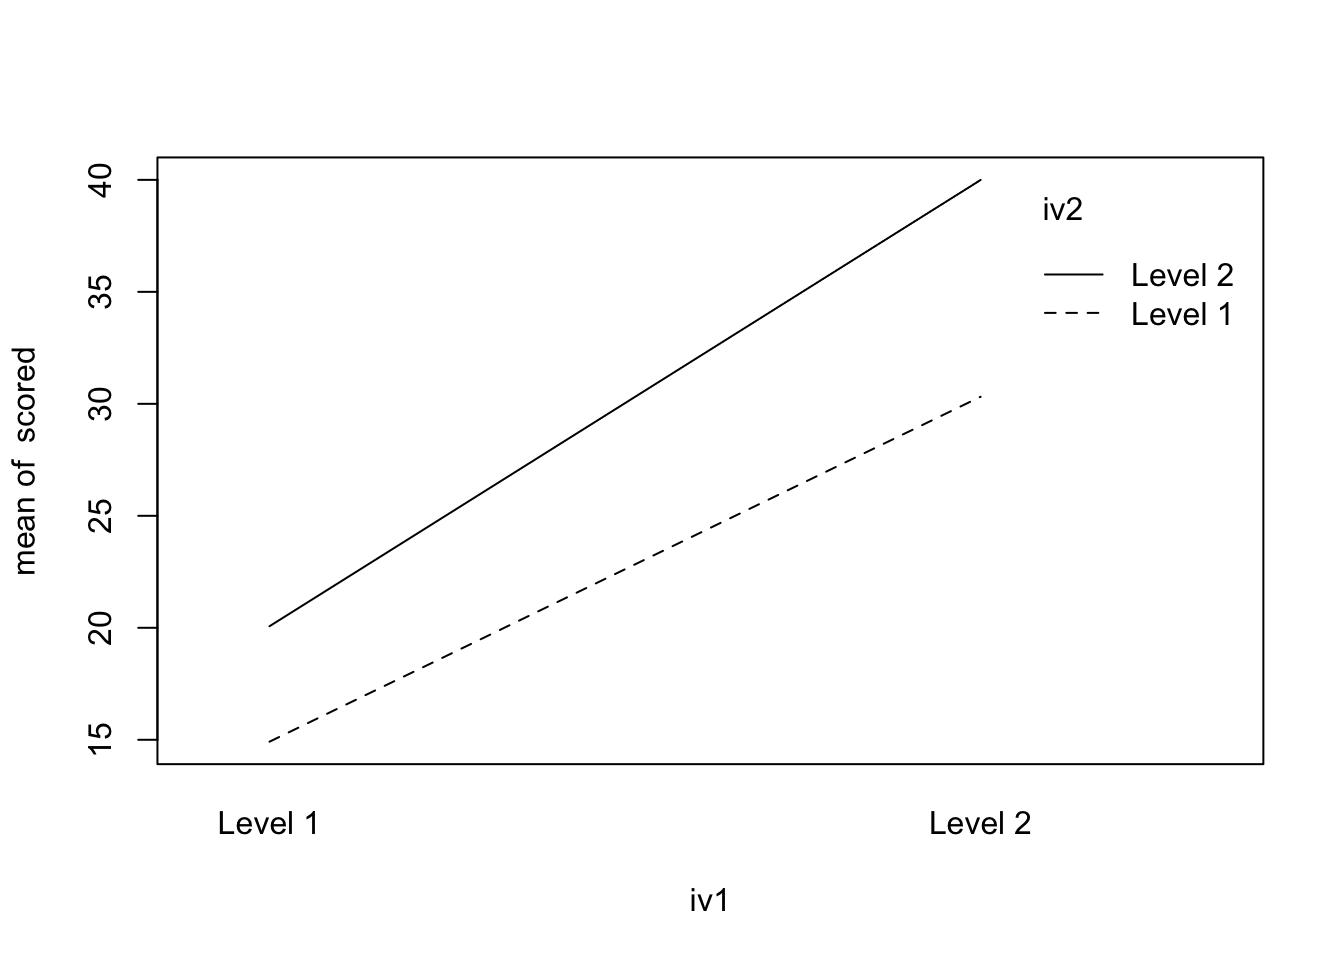
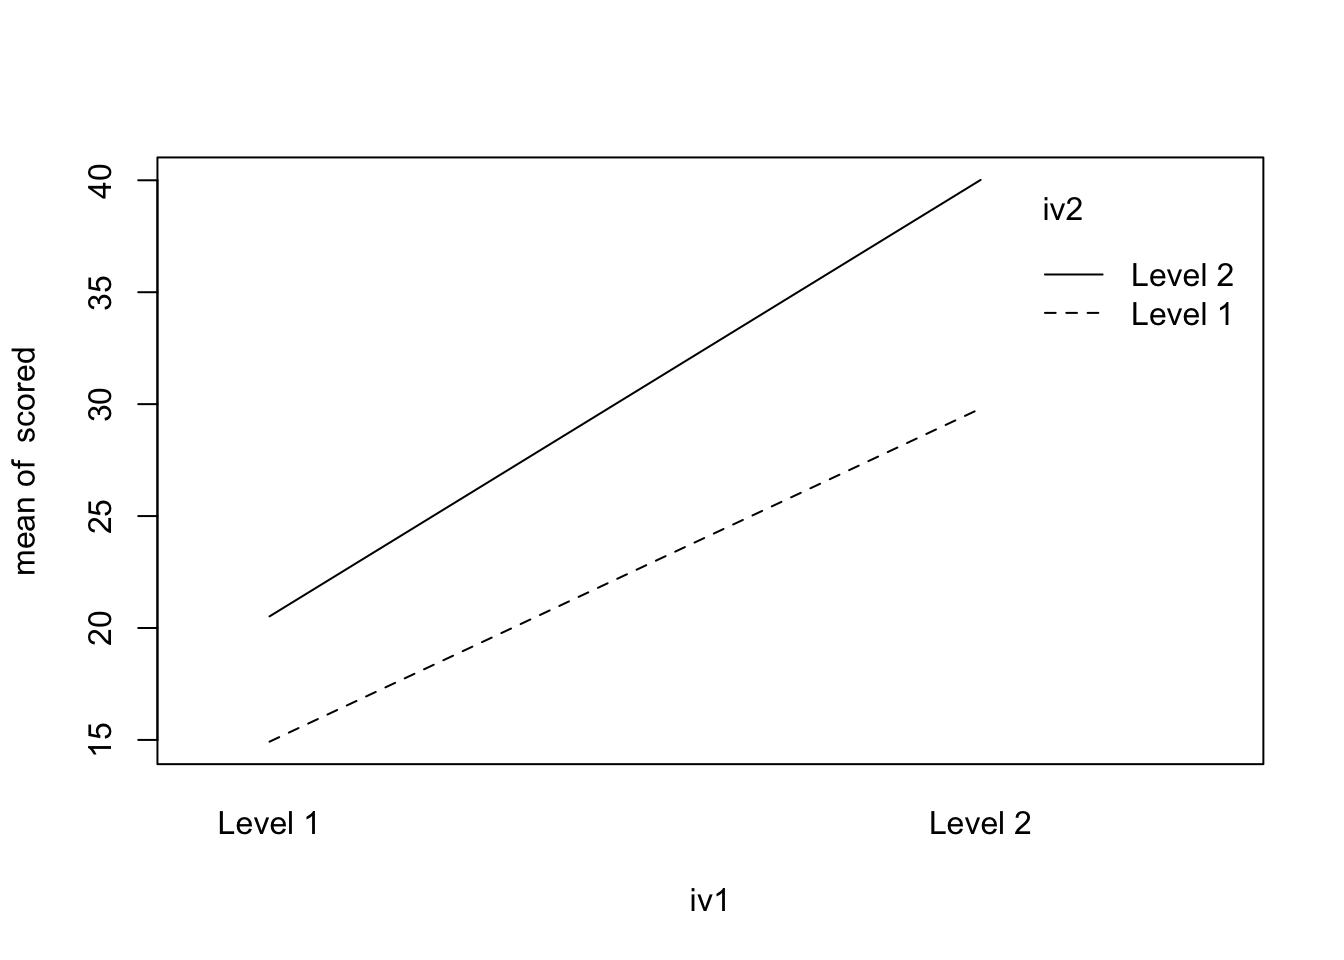
sddd

diff --git a/docs/Lab-11.html b/docs/Lab-11.html
@@ -341,6 +341,7 @@ $(document).ready(function () {
 </div>
 
 
+<p><br></p>
 <div id="two-factor-between-subject-anova" class="section level2">
 <h2>Two Factor Between Subject ANOVA</h2>
 <p>Recall the way that the ANOVA is formatted:</p>
@@ -350,8 +351,8 @@ onefact &lt;- data.frame(groups,score)</code></pre>
 <p>We have three independent variables, or conditions, control, treatment 1 and treatment 2. We have one dependent variable, some idea of “score”.</p>
 <p>The ANOVA is analyzed through the use of the <code>aov</code> function. Remember to save the analysis as a model so you can use it later if you need to do any post-hoc tests/unplanned comparisons.</p>
 <pre><code>            Df Sum Sq Mean Sq F value Pr(&gt;F)    
-groups       2 1421.9   711.0   589.7 &lt;2e-16 ***
-Residuals   57   68.7     1.2                   
+groups       2 1407.7   703.8   586.4 &lt;2e-16 ***
+Residuals   57   68.4     1.2                   
 ---
 Signif. codes:  0 &#39;***&#39; 0.001 &#39;**&#39; 0.01 &#39;*&#39; 0.05 &#39;.&#39; 0.1 &#39; &#39; 1</code></pre>
 <table>
@@ -369,16 +370,16 @@ Signif. codes:  0 &#39;***&#39; 0.001 &#39;**&#39; 0.01 &#39;*&#39; 0.05 &#39;.&
 <tr class="odd">
 <td align="left">groups</td>
 <td align="right">2</td>
-<td align="right">1421.94812</td>
-<td align="right">710.974062</td>
-<td align="right">589.6924</td>
+<td align="right">1407.69983</td>
+<td align="right">703.84991</td>
+<td align="right">586.4194</td>
 <td align="right">0</td>
 </tr>
 <tr class="even">
 <td align="left">Residuals</td>
 <td align="right">57</td>
-<td align="right">68.72315</td>
-<td align="right">1.205669</td>
+<td align="right">68.41426</td>
+<td align="right">1.20025</td>
 <td align="right">NA</td>
 <td align="right">NA</td>
 </tr>
@@ -394,76 +395,76 @@ Signif. codes:  0 &#39;***&#39; 0.001 &#39;**&#39; 0.01 &#39;*&#39; 0.05 &#39;.&
  twofact.df &lt;- data.frame(Gender,Diet,Count)
  twofact.df</code></pre>
 <pre><code>   Gender   Diet    Count
-1    Male Diet 1 28.53147
-2    Male Diet 2 26.23178
-3    Male Diet 1 28.84731
-4    Male Diet 2 25.42578
-5    Male Diet 1 31.91951
-6    Male Diet 2 23.53508
-7    Male Diet 1 27.10036
-8    Male Diet 2 29.43256
-9    Male Diet 1 27.70672
-10   Male Diet 2 28.89447
-11   Male Diet 1 30.95259
-12   Male Diet 2 29.05285
-13   Male Diet 1 28.42184
-14   Male Diet 2 27.79416
-15   Male Diet 1 27.70466
-16   Male Diet 2 24.69838
-17   Male Diet 1 24.06149
-18   Male Diet 2 27.75426
-19   Male Diet 1 30.17468
-20   Male Diet 2 25.61311
-21   Male Diet 1 28.68784
-22   Male Diet 2 28.07542
-23   Male Diet 1 26.79345
-24   Male Diet 2 29.52234
-25   Male Diet 1 29.54715
-26   Male Diet 2 29.36756
-27   Male Diet 1 28.88748
-28   Male Diet 2 27.96414
-29   Male Diet 1 27.84210
-30   Male Diet 2 29.36165
-31 Female Diet 1 36.46115
-32 Female Diet 2 32.36776
-33 Female Diet 1 38.14701
-34 Female Diet 2 38.50928
-35 Female Diet 1 37.42701
-36 Female Diet 2 32.01130
-37 Female Diet 1 37.59093
-38 Female Diet 2 35.79940
-39 Female Diet 1 33.10649
-40 Female Diet 2 34.81801
-41 Female Diet 1 30.38123
-42 Female Diet 2 34.80708
-43 Female Diet 1 33.97652
-44 Female Diet 2 39.04267
-45 Female Diet 1 33.94122
-46 Female Diet 2 33.09970
-47 Female Diet 1 32.09293
-48 Female Diet 2 38.99377
-49 Female Diet 1 37.52461
-50 Female Diet 2 33.59144
-51 Female Diet 1 34.64711
-52 Female Diet 2 36.04067
-53 Female Diet 1 36.99550
-54 Female Diet 2 32.53166
-55 Female Diet 1 37.14753
-56 Female Diet 2 29.47567
-57 Female Diet 1 36.13137
-58 Female Diet 2 36.04017
-59 Female Diet 1 34.21301
-60 Female Diet 2 37.13720</code></pre>
+1    Male Diet 1 27.75444
+2    Male Diet 2 27.77672
+3    Male Diet 1 26.46343
+4    Male Diet 2 27.47751
+5    Male Diet 1 25.97975
+6    Male Diet 2 29.44150
+7    Male Diet 1 22.57227
+8    Male Diet 2 26.57238
+9    Male Diet 1 29.12370
+10   Male Diet 2 28.01403
+11   Male Diet 1 25.95883
+12   Male Diet 2 29.11127
+13   Male Diet 1 30.26321
+14   Male Diet 2 28.23514
+15   Male Diet 1 26.43920
+16   Male Diet 2 29.47807
+17   Male Diet 1 30.39601
+18   Male Diet 2 29.40052
+19   Male Diet 1 25.40175
+20   Male Diet 2 27.88896
+21   Male Diet 1 27.04195
+22   Male Diet 2 29.08836
+23   Male Diet 1 28.96365
+24   Male Diet 2 30.88137
+25   Male Diet 1 31.13416
+26   Male Diet 2 28.33216
+27   Male Diet 1 29.76521
+28   Male Diet 2 28.01631
+29   Male Diet 1 28.74957
+30   Male Diet 2 26.63328
+31 Female Diet 1 37.12409
+32 Female Diet 2 29.77303
+33 Female Diet 1 34.07045
+34 Female Diet 2 37.46748
+35 Female Diet 1 35.30107
+36 Female Diet 2 34.52635
+37 Female Diet 1 31.91394
+38 Female Diet 2 33.99508
+39 Female Diet 1 32.90966
+40 Female Diet 2 36.18597
+41 Female Diet 1 36.46719
+42 Female Diet 2 32.37528
+43 Female Diet 1 33.34848
+44 Female Diet 2 32.98707
+45 Female Diet 1 35.02677
+46 Female Diet 2 33.60315
+47 Female Diet 1 37.16357
+48 Female Diet 2 32.83340
+49 Female Diet 1 36.00737
+50 Female Diet 2 37.23606
+51 Female Diet 1 34.84202
+52 Female Diet 2 33.21682
+53 Female Diet 1 38.17228
+54 Female Diet 2 33.80665
+55 Female Diet 1 34.48369
+56 Female Diet 2 32.83819
+57 Female Diet 1 35.62518
+58 Female Diet 2 34.66736
+59 Female Diet 1 33.57724
+60 Female Diet 2 33.98398</code></pre>
 <p>We can see that there are two levels of the independent variable (gender) and two levels of the independent variable (Diet) and one dependent variable, count.</p>
 <p>From this we will generate four sums of squares and four mean squares. - Sum of Squares for Factor A - Sum of Squares for Factor B - Sum of Squares for the <em>interaction</em> between A and B - Sum of Squares within, or Error, or residual.</p>
 <p>Analyizing the data just uses one more term:</p>
 <pre class="r"><code>twofact.mod&lt;-aov(Count~Gender*Diet,data = twofact.df)
 summary(twofact.mod)</code></pre>
 <pre><code>            Df Sum Sq Mean Sq F value Pr(&gt;F)    
-Gender       1  764.3   764.3 149.250 &lt;2e-16 ***
-Diet         1    6.6     6.6   1.298  0.259    
-Gender:Diet  1    1.3     1.3   0.260  0.612    
-Residuals   56  286.8     5.1                   
+Gender       1  621.9   621.9 183.250 &lt;2e-16 ***
+Diet         1    0.6     0.6   0.189 0.6658    
+Gender:Diet  1   12.0    12.0   3.548 0.0648 .  
+Residuals   56  190.1     3.4                   
 ---
 Signif. codes:  0 &#39;***&#39; 0.001 &#39;**&#39; 0.01 &#39;*&#39; 0.05 &#39;.&#39; 0.1 &#39; &#39; 1</code></pre>
 <pre class="r"><code>kable(xtable(summary(twofact.mod)))</code></pre>
@@ -482,32 +483,32 @@ Signif. codes:  0 &#39;***&#39; 0.001 &#39;**&#39; 0.01 &#39;*&#39; 0.05 &#39;.&
 <tr class="odd">
 <td>Gender</td>
 <td align="right">1</td>
-<td align="right">764.317335</td>
-<td align="right">764.317335</td>
-<td align="right">149.2502497</td>
+<td align="right">621.9377014</td>
+<td align="right">621.9377014</td>
+<td align="right">183.2496576</td>
 <td align="right">0.0000000</td>
 </tr>
 <tr class="even">
 <td>Diet</td>
 <td align="right">1</td>
-<td align="right">6.648651</td>
-<td align="right">6.648651</td>
-<td align="right">1.2982996</td>
-<td align="right">0.2593745</td>
+<td align="right">0.6399817</td>
+<td align="right">0.6399817</td>
+<td align="right">0.1885662</td>
+<td align="right">0.6657812</td>
 </tr>
 <tr class="odd">
 <td>Gender:Diet</td>
 <td align="right">1</td>
-<td align="right">1.331248</td>
-<td align="right">1.331248</td>
-<td align="right">0.2599562</td>
-<td align="right">0.6121539</td>
+<td align="right">12.0401025</td>
+<td align="right">12.0401025</td>
+<td align="right">3.5475332</td>
+<td align="right">0.0648306</td>
 </tr>
 <tr class="even">
 <td>Residuals</td>
 <td align="right">56</td>
-<td align="right">286.778554</td>
-<td align="right">5.121046</td>
+<td align="right">190.0604440</td>
+<td align="right">3.3939365</td>
 <td align="right">NA</td>
 <td align="right">NA</td>
 </tr>
@@ -528,11 +529,11 @@ length(iv1)</code></pre>
 <pre class="r"><code>length(scored)</code></pre>
 <pre><code>[1] 80</code></pre>
 <pre class="r"><code>summary(aov(scored~iv1*iv2,data = df))</code></pre>
-<pre><code>            Df Sum Sq Mean Sq F value   Pr(&gt;F)    
-iv1          1   6241    6241  5793.1  &lt; 2e-16 ***
-iv2          1   1101    1101  1021.6  &lt; 2e-16 ***
-iv1:iv2      1    102     102    95.1 4.91e-15 ***
-Residuals   76     82       1                     
+<pre><code>            Df Sum Sq Mean Sq F value Pr(&gt;F)    
+iv1          1   5910    5910  7342.2 &lt;2e-16 ***
+iv2          1   1250    1250  1552.8 &lt;2e-16 ***
+iv1:iv2      1    107     107   132.4 &lt;2e-16 ***
+Residuals   76     61       1                   
 ---
 Signif. codes:  0 &#39;***&#39; 0.001 &#39;**&#39; 0.01 &#39;*&#39; 0.05 &#39;.&#39; 0.1 &#39; &#39; 1</code></pre>
 <pre class="r"><code>interaction.plot(iv1,iv2,scored)</code></pre>
